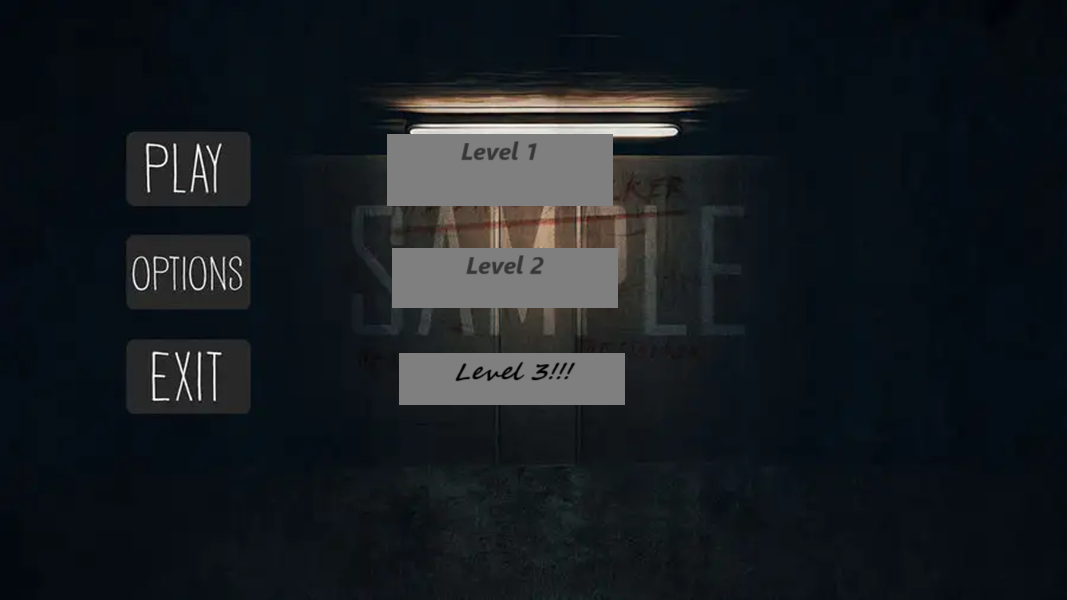
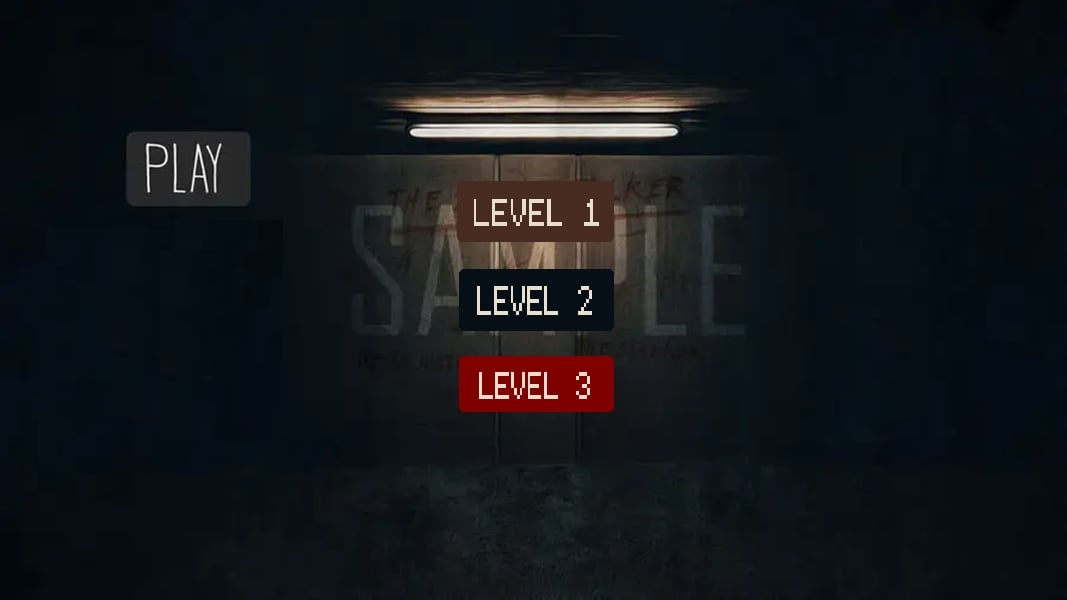
changemenu

Changed region(s): [[0.3402, 0.21, 0.5876, 0.69], [0.0928, 0.39, 0.2474, 0.69]]

diff --git a/Menu.h b/Menu.h
@@ -79,7 +79,7 @@ struct Menu {
              std::cerr << mouseX << " " << mouseY <<std::endl << level1;
 
             // Check if the mouse click is within specified ranges
-            if (mouseX >= 130 && mouseX <= 250 && mouseY >= 130 && mouseY <= 200)           
+            if (mouseX >= 130 && mouseX <= 250 && mouseY >= 130 && mouseY <= 200)
             {
                 // Start the game
                 isRunning = true;
@@ -105,17 +105,17 @@ struct Menu {
 
 
 
-            if (mouseX >= 387 && mouseX <= 611 && mouseY >=132 && mouseY <= 200)
+            if (mouseX >= 460 && mouseX <= 611 && mouseY >=180 && mouseY <= 220)
                 {
                 level1 = 1;
                 life1 = 3;
                 }
-            if (mouseX >= 391 && mouseX <= 614 && mouseY >=249 && mouseY <= 305 )
+            if (mouseX >= 460 && mouseX <= 611 && mouseY >=270 && mouseY <= 330 )
             {
                 level1 = 2;
                 life1 = 2;
             }
-            if (mouseX >= 398 && mouseX <= 624 && mouseY >=352&& mouseY <=453)
+            if (mouseX >= 460 && mouseX <= 611 && mouseY >=360 && mouseY <=410)
             {
                 level1 = 3;
                 life1 = 1;
